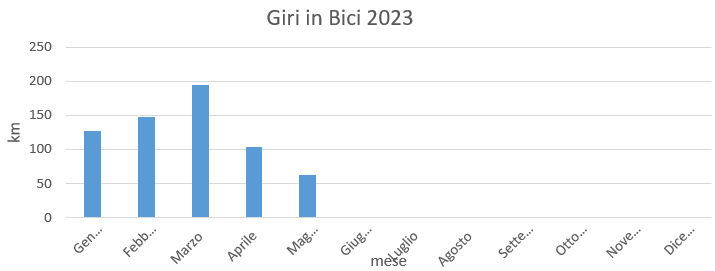
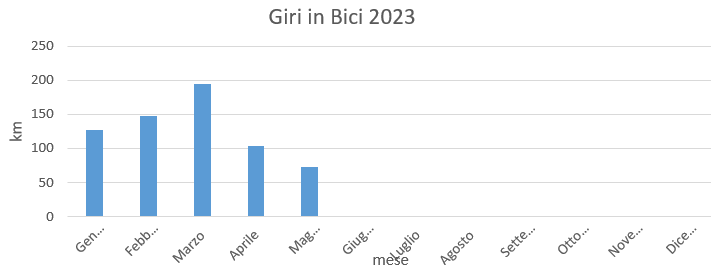
Add files via upload

Changed region(s): [[0.0, 0.2717, 1.0, 1.0], [0.3713, 0.0302, 0.5879, 0.0906], [0.0309, 0.1509, 0.0928, 0.2113]]

diff --git a/Statistiche/Statistiche2023.html b/Statistiche/Statistiche2023.html
@@ -45,30 +45,30 @@
         <tr>
             <td>Gennaio</td>
             <td>127</td>
-            <td> 20,03%</td>
+            <td> 19,69%</td>
         </tr>
 
         <tr>
             <td>Febbraio</td>
             <td>148</td>
-            <td>23,34%</td>
+            <td>22,95%</td>
         </tr>
 
         <tr>
             <td>Marzo</td>
             <td>194</td>
-            <td>30,60%</td>
+            <td>30,08%</td>
         </tr>
 
         <tr>
             <td>Aprile</td>
             <td>103</td>
-            <td>16,25</td>
+            <td>15,97%</td>
         </tr>
 
         <tr>
             <td>Maggio</td>
-            <td>62</td>
+            <td>73</td>
             <td>9,78%</td>
         </tr>
 
@@ -79,8 +79,8 @@
     <br>
 
     <br>
-    <p>totale km 634</p>
-    <p>km medi percorsi 57,64 km </p>
+    <p>totale km 645</p>
+    <p>km medi percorsi 53,75 km </p>
     <br>
     
 

diff --git a/Primavera/Primavera2023.html b/Primavera/Primavera2023.html
@@ -120,11 +120,22 @@
             <td>km</td>
         </tr>
 
+        <tr>
+            <td>15 Maggio</td>
+            <td>7</td>
+            <td><a
+                    href="https://www.komoot.com/it-it/tour/1119464138?share_token=ayHrUGg33dF84755wGPpCEaC5IMN1daDT5yFWR23nP6XXBHndl&ref=wtd">
+                    Belgrado (corsa velocità , causa bucato)</a>
+            </td>
+            <td>11</td>
+            <td>km</td>
+        </tr>
+
     </table>
 
     <br>
-    <p> totale km 359</p>
-    <p>km medi percorsi 59,83</p>
+    <p> totale km 370</p>
+    <p>km medi percorsi 52,86</p>
     <br>
 </body>
 

diff --git a/Statistiche.html b/Statistiche.html
@@ -98,7 +98,7 @@
             </td>
 
             <td>
-                27,5%
+                27,4%
             </td>
         </tr>
 
@@ -123,11 +123,11 @@
             </td>
     
             <td>
-                634
+                645
             </td>
     
             <td>
-                6,7%
+                6,8%
             </td>
     
         </tr>
@@ -139,8 +139,8 @@
     <br>
 
     <br>
-    <p>totale km fatti 9512</p>
-    <p>km medi percorsi 70,46 km </p>
+    <p>totale km fatti 9523</p>
+    <p>km medi percorsi 70,02 km </p>
     <br>
 
     <p class="corsivo">

diff --git a/Giri.html b/Giri.html
@@ -102,8 +102,8 @@
     </table>
 
     <br>
-    <p>totale km fatti 9512</p>
-    <p>km medi percorsi 70,46 km </p>
+    <p>totale km fatti 9523</p>
+    <p>km medi percorsi 70,02 km </p>
     <br>
 
     <br>

diff --git a/Primavera.html b/Primavera.html
@@ -88,7 +88,7 @@
                 </td>
     
                 <td>
-                    359
+                    370
                 </td>
             </tr>
 
